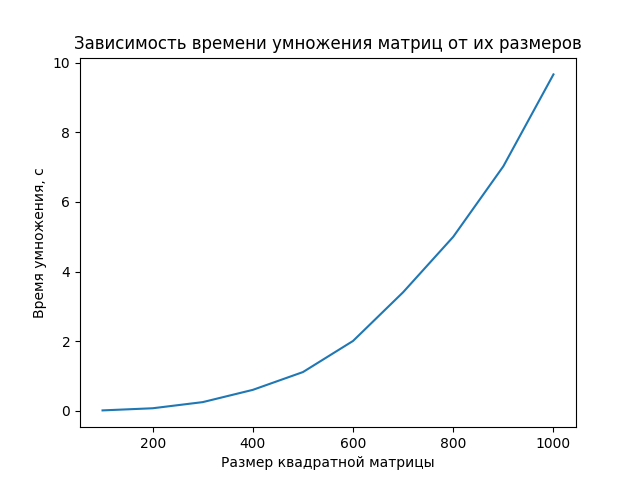
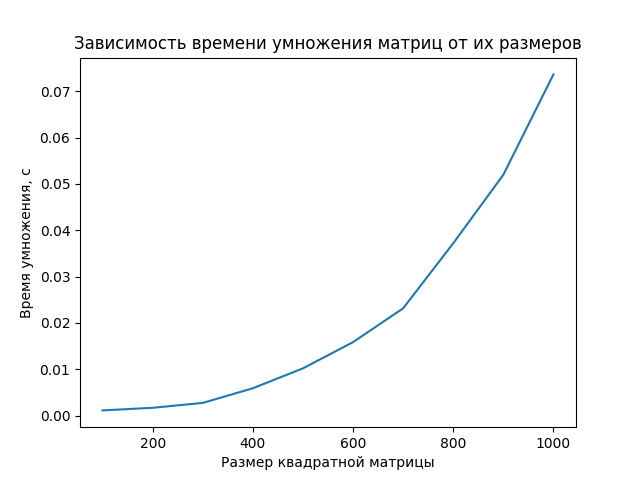
OpenMP fix feat: CMakeLists.txt optimized for OpenMP in Release modified fix: file_handler.py sometimes write_input_file crushes, now it tries a few times before raises exception feat: matrixMultiply.cpp cycles optimization refactor: Report.md updated report

diff --git a/matrixMultiply.cpp b/matrixMultiply.cpp
@@ -8,34 +8,34 @@ using namespace std;
 
 class MatrixMultiplicator {
 public:
-	static vector<vector<float>> multiply(vector<vector<float>> m1, vector<vector<float>> m2) {
+    static vector<vector<float>> multiply(const vector<vector<float>>& m1, const vector<vector<float>>& m2) {
+        if (m1.empty() || m2.empty()) {
+            cerr << "Matrix should not be empty" << endl;
+            return {};
+        }
 
-		if (m1.empty() || m2.empty()) {
-			cerr << "Matrix should not be empty" << endl;
-			return {};
-		}
+        int rows_1 = m1.size();
+        int cols_1 = m1[0].size();
+        int rows_2 = m2.size();
+        int cols_2 = m2[0].size();
 
-		int rows_1 = m1.size();
-		int cols_1 = m1[0].size();
-		int rows_2 = m2.size();
-		int cols_2 = m2[0].size();
+        if (cols_1 != rows_2) {
+            cerr << "Incompatible matrix size" << endl;
+            return {};
+        }
 
-		if (cols_1 != rows_2) {
-			cerr << "Incompatible matrix size" << endl;
-			return {};
-		}
+        vector<vector<float>> res(rows_1, vector<float>(cols_2, 0));
+        
+        #pragma omp parallel for schedule(static)
+        for (int i = 0; i < rows_1; ++i) {
+            for (int k = 0; k < rows_2; ++k) {
+                float temp = m1[i][k];
+                for (int j = 0; j < cols_2; ++j) {
+                    res[i][j] += temp * m2[k][j];
+                }
+            }
+        }
 
-		vector<vector<float>> res(rows_1, vector<float>(cols_2, 0));
-		
-		#pragma omp parallel for schedule(dynamic)
-		for (int i = 0; i < rows_1; ++i) {
-			for (int j = 0; j < cols_2; ++j) {
-				for (int k = 0; k < rows_2; ++k) {
-					res[i][j] += m1[i][k] * m2[k][j];
-				}
-			}
-		}
-
-		return res;
-	}
+        return res;
+    }
 };

diff --git a/file_handler.py b/file_handler.py
@@ -1,3 +1,5 @@
+import time
+
 from typing import TextIO
 
 from numpy import array, ndarray
@@ -24,12 +26,24 @@ class FileHandler:
         return array(res)
     
     @staticmethod
-    def write_input_file(m1: list[list[float]], m2: list[list[float]],  path: str):
-        with open(path, mode = 'w', encoding = "utf-8") as f:
-            FileHandler.write_matrix(m1, f)
-            f.write('\n')
-            FileHandler.write_matrix(m2, f)
+    def write_input_file(m1: list[list[float]], m2: list[list[float]], path: str):
 
+        attempts = 5
+        delay = 0.5
+        
+        for attempt in range(attempts):
+            try:
+                with open(path, mode='w', encoding='utf-8', newline='\n') as f:
+                    FileHandler.write_matrix(m1, f)
+                    f.write('\n')
+                    FileHandler.write_matrix(m2, f)
+                break
+            except (OSError, IOError) as e:
+                print(f"Error file friting to file {attempt}")
+                if attempt == attempts - 1:
+                    raise
+                time.sleep(delay)
+                delay *= 2
     
     @staticmethod
     def write_matrix(m: list[list[float]], file: TextIO):

diff --git a/main.py b/main.py
@@ -7,7 +7,7 @@ from numpy import array, allclose
 
 from file_handler import FileHandler
 
-EXPEREMENT_COUNT = 10
+EXPEREMENT_COUNT = 1
 
 times = []
 sizes = [i*300 for i in range(1, 11)]
@@ -19,7 +19,7 @@ for matr_size in sizes:
         m2 = np.random.rand(matr_size, matr_size)
 
         FileHandler.write_input_file(m1, m2, "files\\input.txt")
-        prog = Popen("out\\build\\x64-Debug\\main.exe", stdin=PIPE)
+        prog = Popen("out\\build\\x64-Release\\main.exe", stdin=PIPE)
         prog.wait()
 
         res1, t = FileHandler.read_output_file("files\\output.txt")

diff --git a/main.cpp b/main.cpp
@@ -8,6 +8,10 @@ using namespace std;
 
 
 void main() {
+	int num_procs = omp_get_num_procs();
+	omp_set_num_threads(num_procs);
+	std::cout << "Available processors: " << num_procs << std::endl;
+	
 	auto input = FileHandler::read_input_file("C:\\Users\\Acer\\Documents\\ParallelProgramming\\files\\input.txt");
 
 	double start = omp_get_wtime();

diff --git a/Report.md b/Report.md
@@ -4,8 +4,8 @@
 Модифицировать программу из л/р №1 для параллельной работы по технологии OpenMP.
 
 ## Изменения
-В `MatrixMultiplicator` умножение матриц теперь распараллелено по внешнему циклу директивой `omp parallel for schedule(dynamic)`.
-Таким образом, потоки будут выполнять вычисления для разных строк одновременно. Выбрано именно `schedule(dynamic)`, т.к. эмпирическим путем выявлено, что итерации выполняются различное время, из-за чего динамическая балансировка нагрузки показала себя лучше.
+В `MatrixMultiplicator` умножение матриц теперь распараллелено по внешнему циклу директивой `omp parallel for schedule(static)`.
+Таким образом, потоки будут выполнять вычисления для разных строк одновременно. Выбрано именно `schedule(static)`, т.к. итерации занимают примерно одинаковое время. Также оптимизирован `CMake`. Использовалось 12 потоков, т.к. программа выполнялась на 12ядерном процессоре.
 
 ## Результат
 График, полученный ранее для последовательной программы:
@@ -21,4 +21,4 @@
 ![График](files/result.png)
 
 ## Вывод
-Операция умножения матриц имеет сложность *O(n^3)*, по графику все еще наблюдается нечто похожее, однако при сравнении с ранее полученными результатами можно сделать вывод: для распараллеленой программы этой оценкой сложности все же является *O(αn^3)*, где  α - некий коэфиициент, при чем  α<1.
+Операция умножения матриц имеет сложность *O(n^3)*, по графику все еще наблюдается нечто похожее, однако при сравнении с ранее полученными результатами можно сделать вывод: для распараллеленой программы этой оценкой сложности все же является *O(αn^3)*, где  α - некий коэфиициент, при чем  α<<1. Скорость вычислений возросла в более чем **150 раз**. 
